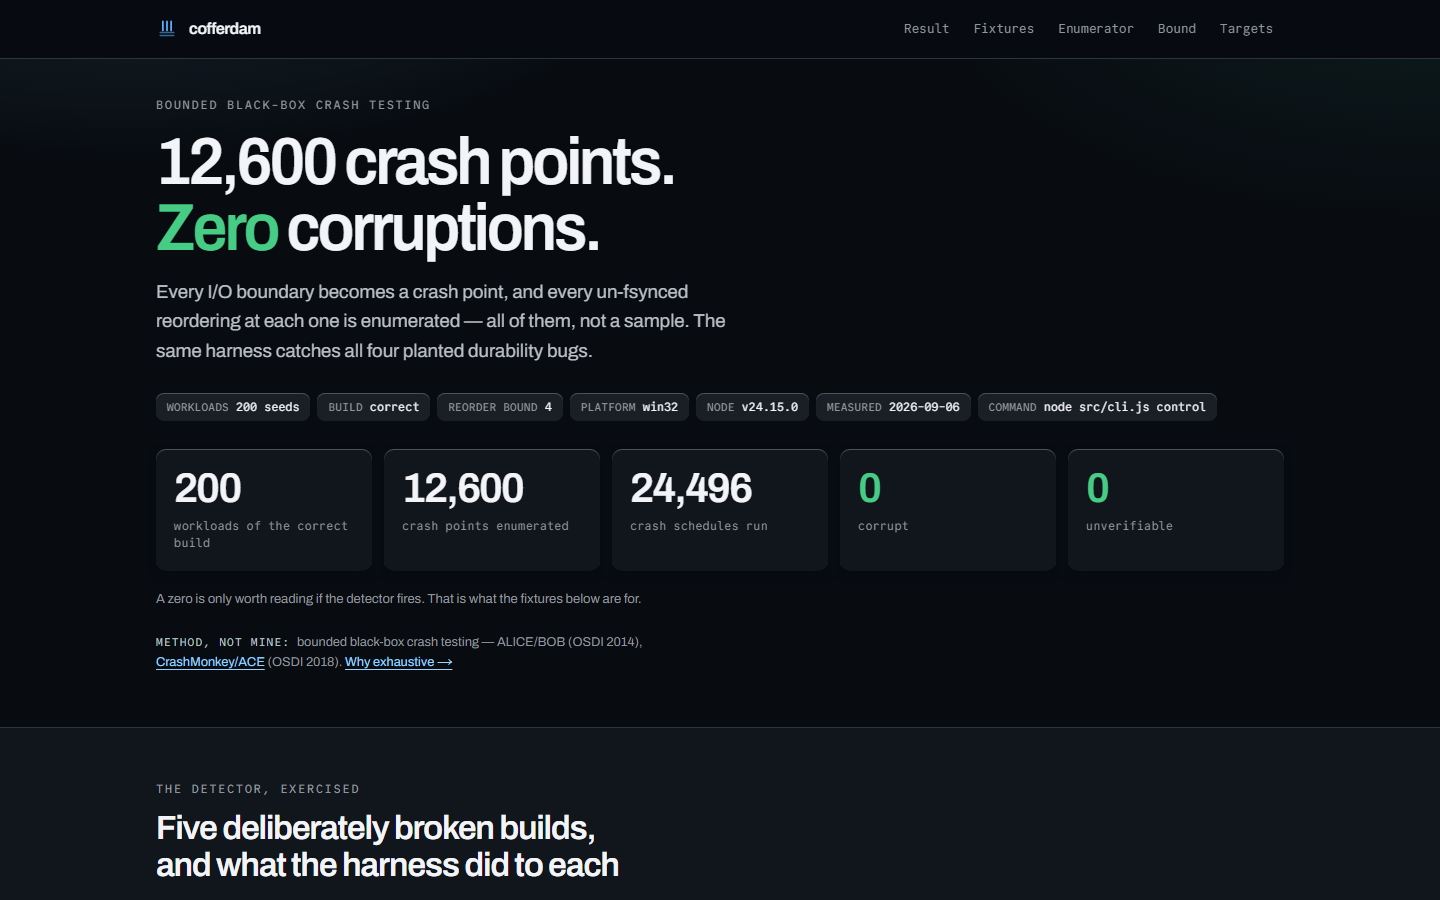
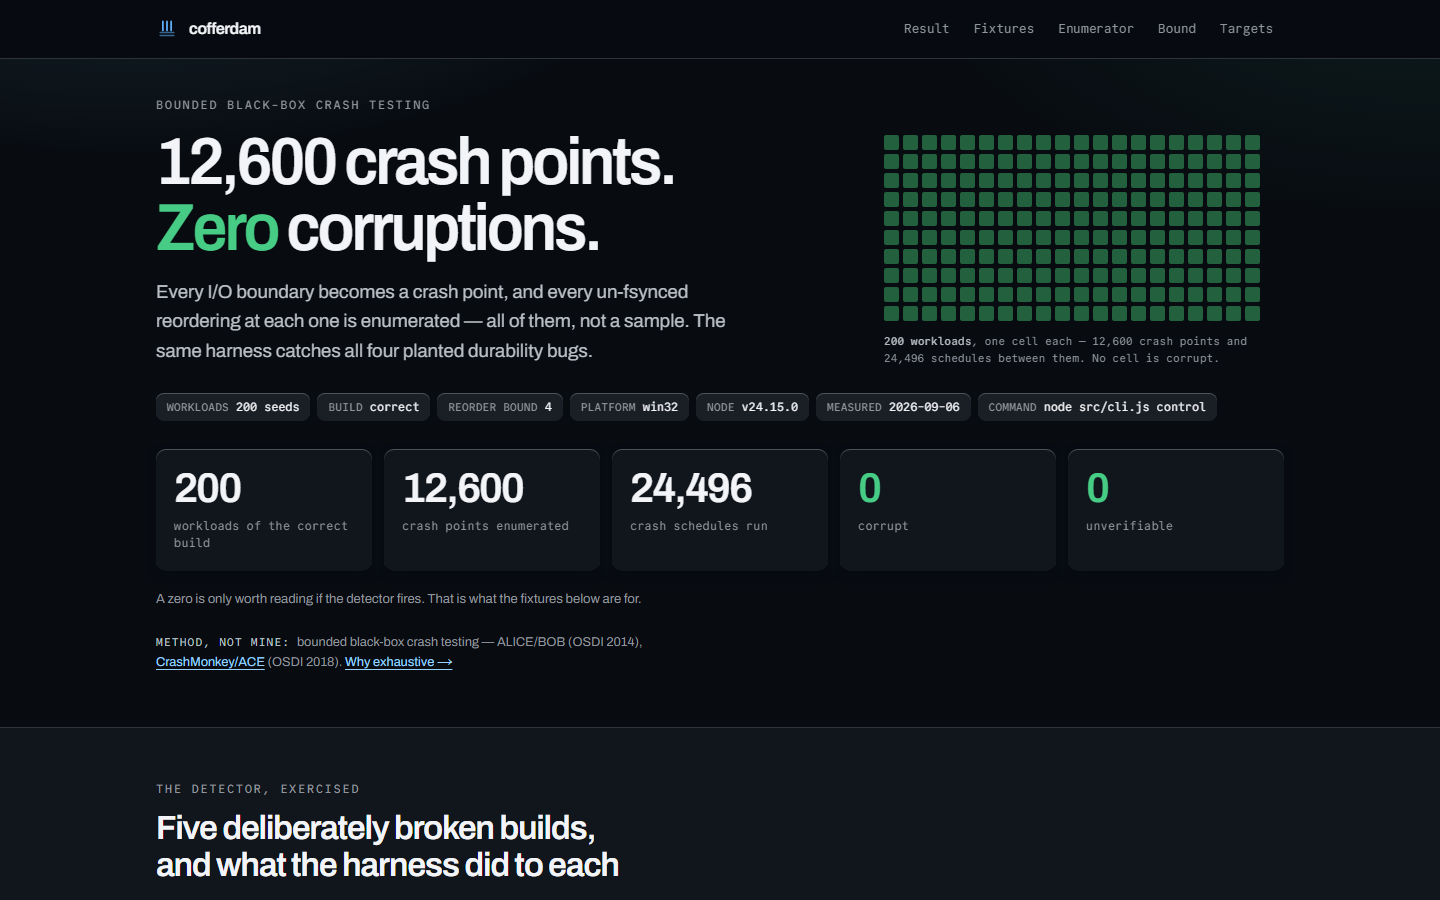
site: fill the hero's empty half with the control run as a field
At 1440px the headline and lede stopped around x=730 while the chips
and readout panels below spanned the full shell. A full-width layout
the hero alone did not honour is what made it read as unfinished.

The space now holds the negative control drawn as a field: one cell
per workload, 200 of them, in the same colour language as the matrix
further down. It states the headline a second way with the project's
own data rather than with decoration, and it previews the page's
centrepiece.

It is only drawn when the data can support every cell. `corrupt`
counts crash points, not workloads, so a non-zero count could not be
attributed to particular cells; in that case the figure hides itself
rather than guessing. A field that guessed would be decoration
pretending to be evidence.

Cost, measured twice with a scripted scroll and the field ablated as
the control: 60.0 fps both ways, p95 16.8ms both ways, delta -0.0 fps.
That is what 200 plain background-color divs with no shadow, blur,
blend or per-cell animation should cost, and it is why they have none.

Hidden below 1080px entirely rather than shrunk: the phone full-page
screenshot still measures exactly 390px, unchanged at 390x7276.
aria-hidden, because the navigable matrix with the same colours and
real keyboard support already lives below it.

project-gate 20/22, 0 hard failures. 89 tests, 88 pass, 1 skip.

Claude-Session: https://claude.ai/code/session_019rfvjaP9hvT368bXjyYaBM

Changed region(s): [[0.5938, 0.1244, 0.875, 0.4044]]

diff --git a/web/index.html b/web/index.html
@@ -36,15 +36,27 @@
 <!-- =============================================================== HERO === -->
 <section class="hero" id="result">
   <div class="shell">
-    <p class="eyebrow rise">Bounded black-box crash testing</p>
-    <h1 class="display rise rise-2" style="margin-top:14px">
-      12,600 crash points.<br><em>Zero</em> corruptions.
-    </h1>
-    <p class="lede rise rise-3">
-      Every I/O boundary becomes a crash point, and every un-fsynced reordering at each one is
-      enumerated &mdash; all of them, not a sample. The same harness catches all four planted
-      durability bugs.
-    </p>
+    <div class="hero__grid">
+      <div class="hero__copy">
+        <p class="eyebrow rise">Bounded black-box crash testing</p>
+        <h1 class="display rise rise-2" style="margin-top:14px">
+          12,600 crash points.<br><em>Zero</em> corruptions.
+        </h1>
+        <p class="lede rise rise-3">
+          Every I/O boundary becomes a crash point, and every un-fsynced reordering at each one is
+          enumerated &mdash; all of them, not a sample. The same harness catches all four planted
+          durability bugs.
+        </p>
+      </div>
+
+      <!-- The control run as a field: one cell per workload, coloured by that
+           workload's own verdict. Decorative for assistive tech only because
+           the navigable matrix with the same colour language lives below. -->
+      <figure class="field rise rise-3" aria-hidden="true">
+        <div class="field__grid" id="field"></div>
+        <figcaption class="field__cap" id="field-cap"></figcaption>
+      </figure>
+    </div>
 
     <ul class="provenance rise rise-3" id="provenance"></ul>
 

diff --git a/web/style.css b/web/style.css
@@ -324,6 +324,52 @@ a:hover { color: var(--ink-1); }
     radial-gradient(40% 38% at 88% 8%, oklch(0.8 0.14 168 / 9%), transparent 70%);
 }
 
+/* ===================================================== 4b. HERO FIELD ===== */
+
+/* Below 1080px the hero is a single column and the field is not rendered at
+   all — a dense grid shrunk into a phone column is mush, not evidence. */
+.hero__grid { display: block; }
+.field { display: none; }
+
+@media (min-width: 1080px) {
+  .hero__grid {
+    display: grid;
+    grid-template-columns: minmax(0, 1fr) auto;
+    align-items: end;
+    gap: 40px;
+  }
+  .field { display: block; margin: 0; flex: none; }
+}
+
+/* One cell per workload in the negative control. No shadow, no blur, no blend
+   and no per-cell animation: this is ~200 nodes and it has to cost nothing.
+   Measured after adding it — see docs/. */
+.field__grid {
+  display: grid;
+  grid-template-columns: repeat(20, 15px);
+  gap: 4px;
+}
+
+.field__cell {
+  width: 15px;
+  height: 15px;
+  border-radius: 2px;
+  background: var(--ok-dim);
+}
+
+.field__cell.is-bad { background: var(--bad); }
+
+.field__cap {
+  margin-top: 12px;
+  font-family: var(--f-data);
+  font-size: 0.7rem;
+  line-height: 1.5;
+  color: var(--ink-3);
+  max-width: 25rem;
+}
+
+.field__cap b { color: var(--ink-2); font-weight: 500; }
+
 /* ============================================= 5. PROVENANCE CHIP ROW ===== */
 
 .provenance {

diff --git a/web/app.js b/web/app.js
@@ -126,6 +126,27 @@
     });
   }
 
+  // The negative control drawn as a field: one cell per workload, so the empty
+  // half of the hero says the headline a second way with the project's own
+  // data. It is only drawn when the data can actually support every cell:
+  // `corrupt` counts crash points rather than workloads, so a non-zero count
+  // cannot be attributed to particular cells, and a field that guessed would be
+  // decoration pretending to be evidence.
+  function renderField() {
+    var c = DATA.control;
+    var grid = $('field');
+    var fig = grid.parentNode;
+    if (c.corrupt !== 0 || c.unverifiable !== 0) {
+      fig.style.display = 'none';
+      return;
+    }
+    for (var i = 0; i < c.seeds; i++) add(grid, 'div', 'field__cell');
+    var cap = $('field-cap');
+    add(cap, 'b', null, num(c.seeds) + ' workloads');
+    add(cap, 'span', null, ', one cell each — ' + num(c.crashPoints) + ' crash points and ' +
+      num(c.schedules) + ' schedules between them. No cell is corrupt.');
+  }
+
   function renderControl() {
     var c = DATA.control;
     var box = $('control');
@@ -535,6 +556,7 @@
 
   readUrl();
   renderProvenance();
+  renderField();
   renderControl();
   renderViewPicker();
   renderFixtures();
